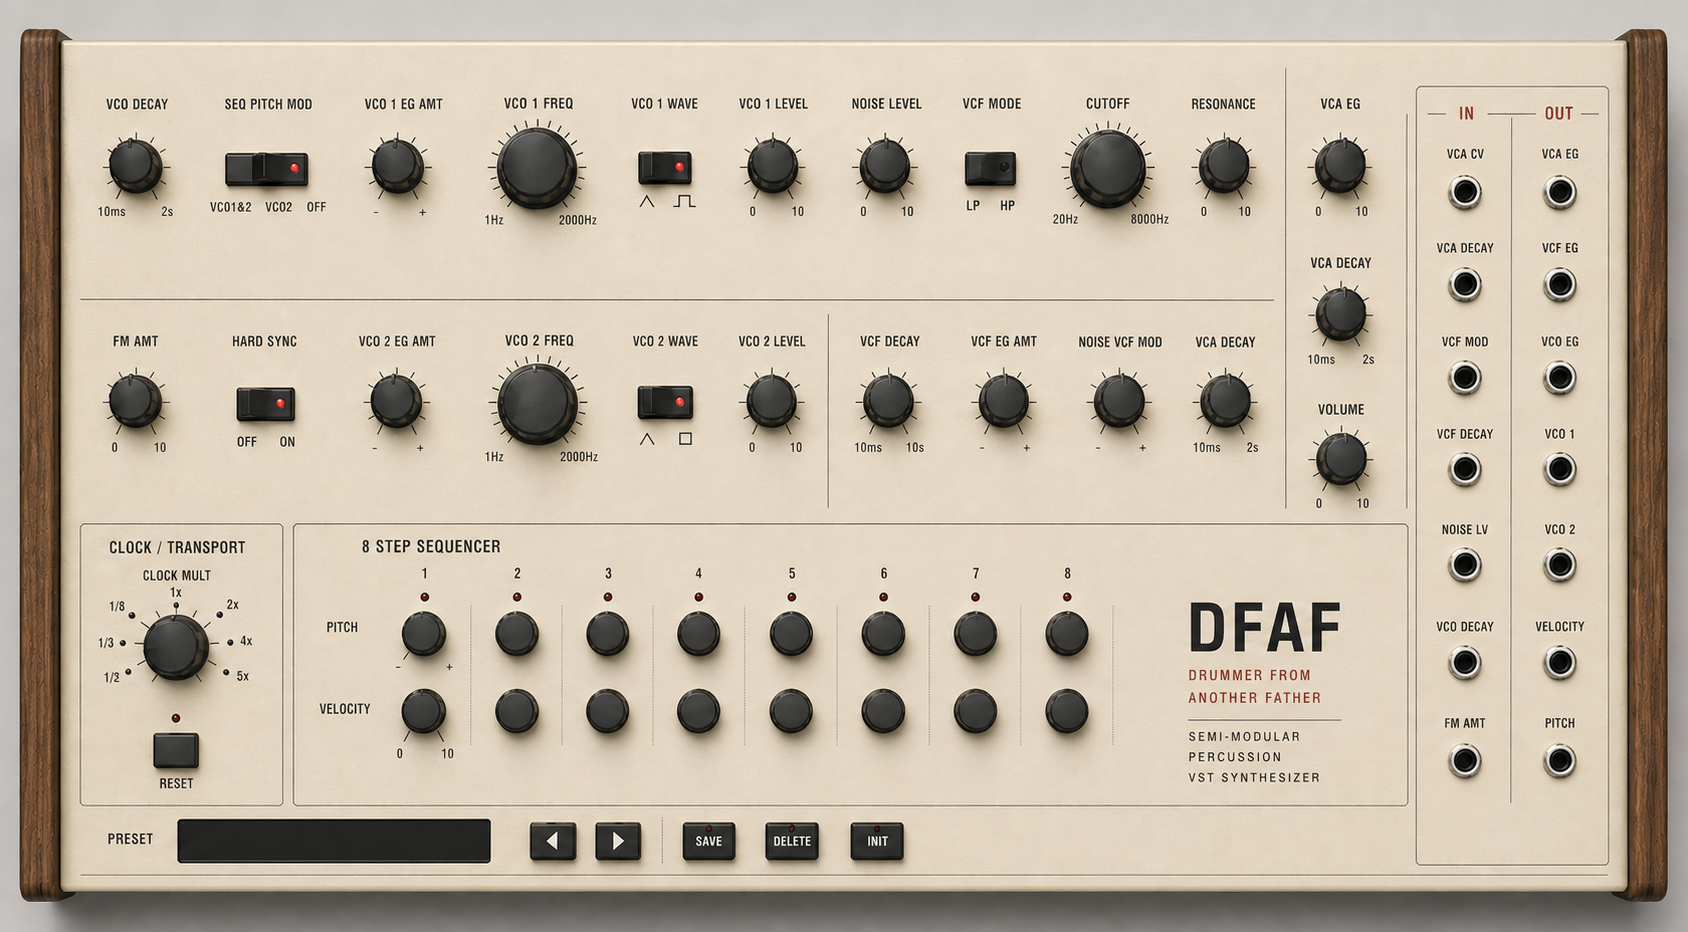
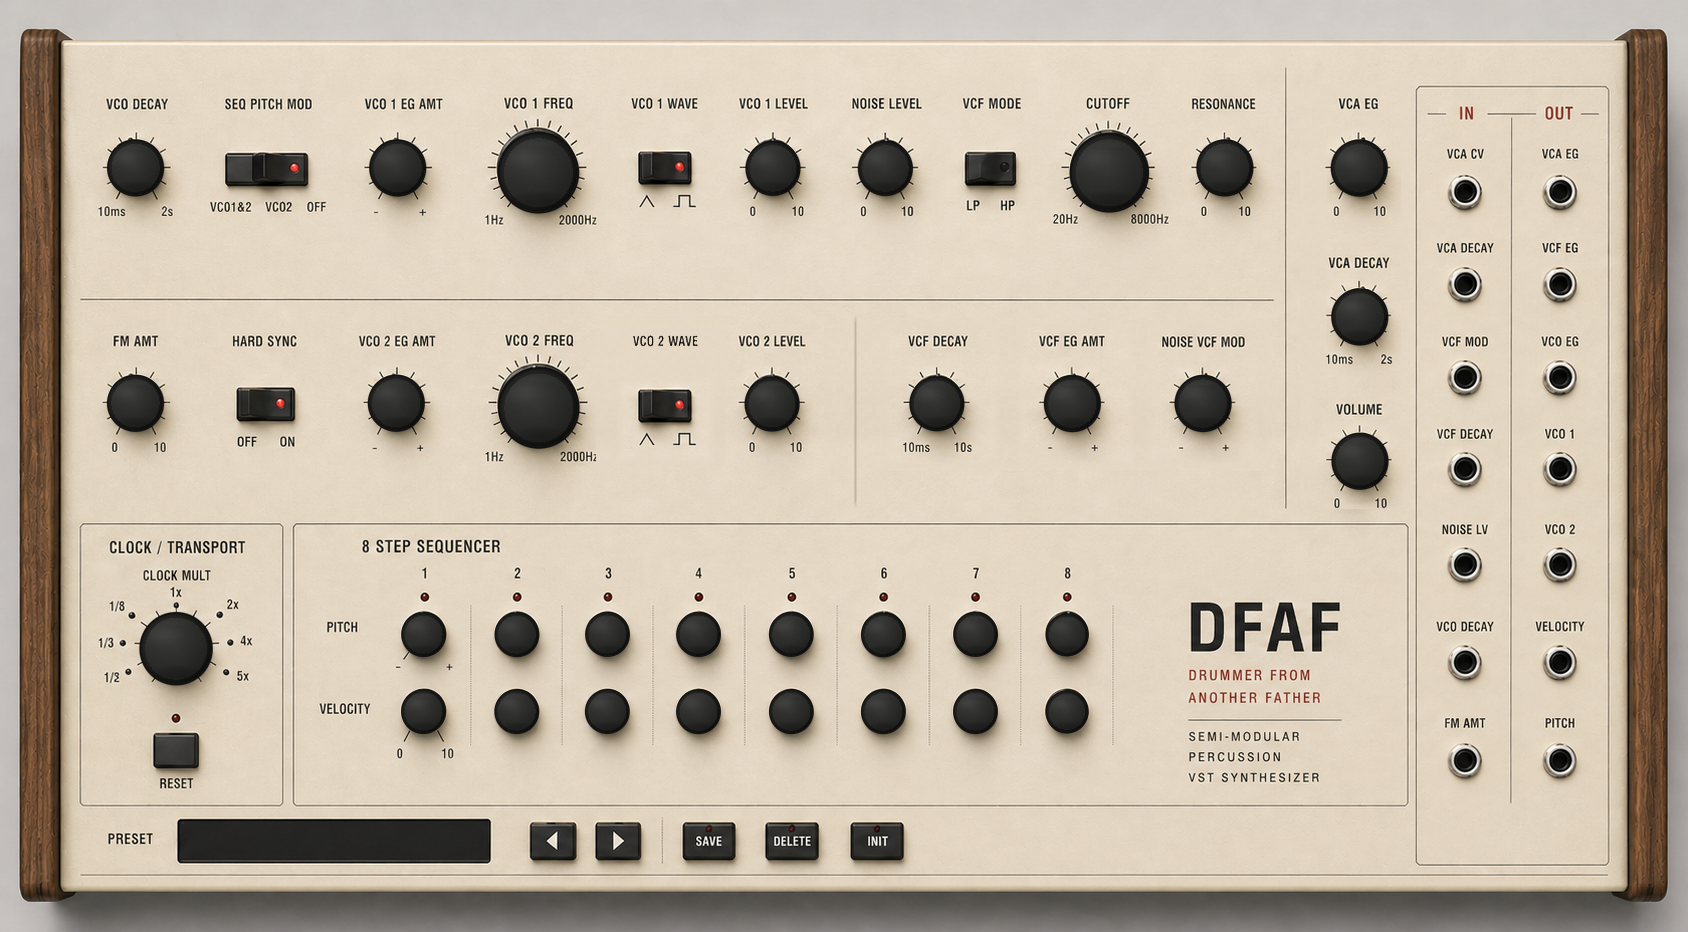
Update panel background and GUI mapping

diff --git a/Source/PluginEditor.cpp b/Source/PluginEditor.cpp
@@ -25,8 +25,8 @@ const juce::Colour kCableRed         = juce::Colour(0xffb24737);
 const juce::Colour kCableDark        = juce::Colour(0xff383838);
 const juce::Colour kCableAmber       = juce::Colour(0xffb06a3a);
 
-constexpr float kPanelSourceWidth = 1689.0f;
-constexpr float kPanelSourceHeight = 931.0f;
+constexpr float kPanelSourceWidth = 1688.0f;
+constexpr float kPanelSourceHeight = 932.0f;
 constexpr const char* kPanelControlId = "panel-control";
 
 juce::File getDefaultPresetDirectory()
@@ -92,11 +92,15 @@ void drawPanelToggle(juce::Graphics& g, juce::Rectangle<float> bounds, int selec
     g.setColour(juce::Colour(0x44000000));
     g.drawRoundedRectangle(handle, 2.0f, 1.0f);
 
-    auto redDot = juce::Rectangle<float>(4.4f, 4.4f).withCentre({ handle.getRight() - 9.0f, handle.getCentreY() - 0.5f });
-    g.setColour(juce::Colour(0xff8a302d));
+    auto redDot = juce::Rectangle<float>(5.6f, 5.6f).withCentre({ handle.getRight() - 9.0f, handle.getCentreY() - 0.5f });
+    g.setColour(kLedRed.withAlpha(0.20f));
+    g.fillEllipse(redDot.expanded(3.0f));
+    g.setColour(juce::Colour(0xff5a1614));
+    g.fillEllipse(redDot.expanded(0.8f));
+    g.setColour(kLedRed);
     g.fillEllipse(redDot);
-    g.setColour(juce::Colour(0xffff8a78).withAlpha(0.42f));
-    g.fillEllipse(redDot.reduced(1.4f).translated(-0.4f, -0.4f));
+    g.setColour(juce::Colour(0xffffd0bd).withAlpha(0.58f));
+    g.fillEllipse(redDot.reduced(1.9f).translated(-0.7f, -0.7f));
 }
 
 int seqPitchModPanelIndex(int parameterIndex)
@@ -109,16 +113,9 @@ int seqPitchModPanelIndex(int parameterIndex)
     }
 }
 
-void drawActivePanelLed(juce::Graphics& g, juce::Rectangle<float> led)
+int wavePanelIndex(int parameterIndex)
 {
-    g.setColour(kLedRed.withAlpha(0.26f));
-    g.fillEllipse(led.expanded(4.0f));
-    g.setColour(juce::Colour(0xff5a1614));
-    g.fillEllipse(led.expanded(1.0f));
-    g.setColour(kLedRed);
-    g.fillEllipse(led);
-    g.setColour(juce::Colour(0xffffd0bd).withAlpha(0.62f));
-    g.fillEllipse(led.reduced(2.6f).translated(-1.0f, -1.0f));
+    return parameterIndex == 1 ? 0 : 1; // TRI is left on the panel; square is right.
 }
 
 juce::Path makeCablePath(juce::Point<float> src, juce::Point<float> dst, float slack = 1.0f)
@@ -450,20 +447,47 @@ DFAFEditor::DFAFEditor(DFAFProcessor& p)
     vco1WaveBox.addItem("SQUARE", 1);
     vco1WaveBox.addItem("TRIANGLE", 2);
     vco1WaveBox.setComponentID(kPanelControlId);
+    vco1WaveBox.setInterceptsMouseClicks(false, false);
     vco1WaveBox.onChange = [this]() { repaint(); };
     addAndMakeVisible(vco1WaveBox);
+
+    vco1WaveButton.setComponentID(kPanelControlId);
+    vco1WaveButton.onClick = [this]()
+    {
+        vco1WaveBox.setSelectedId(vco1WaveBox.getSelectedId() == 2 ? 1 : 2,
+                                  juce::sendNotification);
+    };
+    addAndMakeVisible(vco1WaveButton);
 
     vco2WaveBox.addItem("SQUARE", 1);
     vco2WaveBox.addItem("TRIANGLE", 2);
     vco2WaveBox.setComponentID(kPanelControlId);
+    vco2WaveBox.setInterceptsMouseClicks(false, false);
     vco2WaveBox.onChange = [this]() { repaint(); };
     addAndMakeVisible(vco2WaveBox);
+
+    vco2WaveButton.setComponentID(kPanelControlId);
+    vco2WaveButton.onClick = [this]()
+    {
+        vco2WaveBox.setSelectedId(vco2WaveBox.getSelectedId() == 2 ? 1 : 2,
+                                  juce::sendNotification);
+    };
+    addAndMakeVisible(vco2WaveButton);
 
     vcfModeBox.addItem("LP", 1);
     vcfModeBox.addItem("HP", 2);
     vcfModeBox.setComponentID(kPanelControlId);
+    vcfModeBox.setInterceptsMouseClicks(false, false);
     vcfModeBox.onChange = [this]() { repaint(); };
     addAndMakeVisible(vcfModeBox);
+
+    vcfModeButton.setComponentID(kPanelControlId);
+    vcfModeButton.onClick = [this]()
+    {
+        vcfModeBox.setSelectedId(vcfModeBox.getSelectedId() == 2 ? 1 : 2,
+                                 juce::sendNotification);
+    };
+    addAndMakeVisible(vcfModeButton);
 
     clockMultBox.addItem("1/8", 1);
     clockMultBox.addItem("1/5", 2);
@@ -671,16 +695,16 @@ juce::Point<int> DFAFEditor::mapPanelPoint(float x, float y) const
 
 juce::Rectangle<int> DFAFEditor::getPatchAreaBounds() const
 {
-    return mapPanelRect(1388.0f, 110.0f, 211.0f, 708.0f);
+    return mapPanelRect(1414.0f, 86.0f, 195.0f, 781.0f);
 }
 
 juce::Point<int> DFAFEditor::getJackCentre(PatchPoint pp) const
 {
     const auto inputs = inputOrder();
     const auto outputs = outputOrder();
-    constexpr std::array<float, 7> ys { 216.0f, 305.0f, 394.0f, 482.0f, 572.0f, 661.0f, 750.0f };
-    constexpr float inX = 1442.0f;
-    constexpr float outX = 1543.0f;
+    constexpr std::array<float, 7> ys { 191.0f, 284.0f, 377.0f, 468.0f, 564.0f, 662.0f, 760.0f };
+    constexpr float inX = 1465.0f;
+    constexpr float outX = 1560.0f;
 
     for (int i = 0; i < 7; ++i)
     {
@@ -958,25 +982,23 @@ void DFAFEditor::setupKnob(juce::Slider& s, bool small)
 void DFAFEditor::drawPanelSwitches(juce::Graphics& g) const
 {
     const int seqPitchModIndex = seqPitchModPanelIndex(seqPitchModBox.getSelectedItemIndex());
-    drawPanelToggle(g, mapPanelRect(231.0f, 182.0f, 96.0f, 33.0f).toFloat(),
+    drawPanelToggle(g, mapPanelRect(225.0f, 153.0f, 83.0f, 34.0f).toFloat(),
                     seqPitchModIndex, 3);
-    drawActivePanelLed(g, mapPanelRect(245.0f + 29.0f * (float) seqPitchModIndex, 162.0f, 9.0f, 9.0f).toFloat());
 
-    drawPanelToggle(g, mapPanelRect(631.0f, 171.0f, 54.0f, 30.0f).toFloat(),
-                    juce::jlimit(0, 1, vco1WaveBox.getSelectedItemIndex()), 2);
-    drawPanelToggle(g, mapPanelRect(958.0f, 191.0f, 43.0f, 31.0f).toFloat(),
+    drawPanelToggle(g, mapPanelRect(639.0f, 152.0f, 53.0f, 33.0f).toFloat(),
+                    wavePanelIndex(vco1WaveBox.getSelectedItemIndex()), 2);
+    drawPanelToggle(g, mapPanelRect(965.0f, 152.0f, 51.0f, 34.0f).toFloat(),
                     juce::jlimit(0, 1, vcfModeBox.getSelectedItemIndex()), 2);
-    drawPanelToggle(g, mapPanelRect(250.0f, 405.0f, 52.0f, 31.0f).toFloat(),
-                    juce::jlimit(0, 1, hardSyncBox.getSelectedItemIndex()), 2);
-    if (hardSyncBox.getSelectedItemIndex() == 1)
-        drawActivePanelLed(g, mapPanelRect(272.0f, 385.0f, 9.0f, 9.0f).toFloat());
 
-    drawPanelToggle(g, mapPanelRect(631.0f, 395.0f, 54.0f, 30.0f).toFloat(),
-                    juce::jlimit(0, 1, vco2WaveBox.getSelectedItemIndex()), 2);
+    drawPanelToggle(g, mapPanelRect(237.0f, 388.0f, 58.0f, 34.0f).toFloat(),
+                    juce::jlimit(0, 1, hardSyncBox.getSelectedItemIndex()), 2);
+
+    drawPanelToggle(g, mapPanelRect(638.0f, 386.0f, 55.0f, 34.0f).toFloat(),
+                    wavePanelIndex(vco2WaveBox.getSelectedItemIndex()), 2);
 
     if (resetLedActive)
     {
-        auto led = mapPanelRect(183.0f, 704.0f, 9.0f, 9.0f).toFloat();
+        auto led = mapPanelRect(171.0f, 714.0f, 9.0f, 9.0f).toFloat();
         g.setColour(kLedRed.withAlpha(0.28f));
         g.fillEllipse(led.expanded(5.0f));
         g.setColour(kLedRed);
@@ -986,8 +1008,8 @@ void DFAFEditor::drawPanelSwitches(juce::Graphics& g) const
 
 void DFAFEditor::drawPresetDisplay(juce::Graphics& g) const
 {
-    auto screenArea = mapPanelRect(183.0f, 816.0f, 250.0f, 40.0f).toFloat();
-    auto textArea = mapPanelRect(207.0f, 821.0f, 208.0f, 28.0f).toFloat();
+    auto screenArea = mapPanelRect(178.0f, 819.0f, 313.0f, 44.0f).toFloat();
+    auto textArea = mapPanelRect(202.0f, 824.0f, 270.0f, 31.0f).toFloat();
     auto selectedId = presetBox.getSelectedId();
     if (selectedId == 0)
         selectedId = kPresetInitId;
@@ -1049,7 +1071,9 @@ void DFAFEditor::paint(juce::Graphics& g)
 
     for (int i = 0; i < 8; ++i)
     {
-        const auto led = mapPanelRect(409.0f + 86.0f * (float) i, 571.0f, 9.0f, 9.0f).toFloat();
+        constexpr std::array<float, 8> stepLedXs { 424.0f, 517.0f, 608.0f, 699.0f,
+                                                   792.0f, 884.0f, 975.0f, 1067.0f };
+        const auto led = mapPanelRect(stepLedXs[(size_t) i] - 4.5f, 592.5f, 9.0f, 9.0f).toFloat();
         if (i == currentLedStep)
         {
             g.setColour(kLedRed.withAlpha(0.28f));
@@ -1071,57 +1095,62 @@ void DFAFEditor::resized()
         slider.setBounds(mapPanelRect(cx - size * 0.5f, cy - size * 0.5f, size, size));
     };
 
-    setKnobCentre(vcoDecay, 151.0f, 184.0f, 62.0f);
+    setKnobCentre(vcoDecay, 136.0f, 169.0f, 62.0f);
     vcoDecay.getProperties().set("panelIndicatorCentreX", -2.0);
     vcoDecay.getProperties().set("panelIndicatorCentreY", -2.0);
-    setKnobCentre(vco1EgAmount, 400.0f, 184.0f, 62.0f);
+    setKnobCentre(vco1EgAmount, 398.0f, 169.0f, 62.0f);
     vco1EgAmount.getProperties().set("panelIndicatorCentreX", -1.0);
-    setKnobCentre(vco1Frequency, 529.0f, 184.0f, 82.0f);
+    setKnobCentre(vco1Frequency, 539.0f, 174.0f, 82.0f);
     vco1Frequency.getProperties().set("panelIndicatorCentreX", -1.5);
     vco1Frequency.getProperties().set("panelIndicatorCentreY", -3.0);
-    setKnobCentre(vco1Level, 765.0f, 184.0f, 60.0f);
-    setKnobCentre(noiseLevel, 884.0f, 184.0f, 60.0f);
-    setKnobCentre(cutoff, 1084.0f, 184.0f, 78.0f);
-    setKnobCentre(resonance, 1196.0f, 184.0f, 62.0f);
-    setKnobCentre(vcaEg, 1303.0f, 184.0f, 62.0f);
+    setKnobCentre(vco1Level, 773.0f, 169.0f, 60.0f);
+    setKnobCentre(noiseLevel, 886.0f, 170.0f, 60.0f);
+    setKnobCentre(cutoff, 1110.0f, 174.0f, 78.0f);
+    setKnobCentre(resonance, 1225.0f, 169.0f, 62.0f);
+    setKnobCentre(vcaEg, 1342.0f, 170.0f, 62.0f);
 
-    setKnobCentre(fmAmount, 151.0f, 407.0f, 62.0f);
+    setKnobCentre(fmAmount, 136.0f, 404.0f, 62.0f);
     fmAmount.getProperties().set("panelIndicatorCentreX", -2.0);
     fmAmount.getProperties().set("panelIndicatorCentreY", -2.0);
-    setKnobCentre(vco2EgAmount, 400.0f, 407.0f, 62.0f);
+    setKnobCentre(vco2EgAmount, 396.0f, 404.0f, 62.0f);
     vco2EgAmount.getProperties().set("panelIndicatorCentreX", -1.0);
-    setKnobCentre(vco2Frequency, 529.0f, 407.0f, 82.0f);
+    setKnobCentre(vco2Frequency, 540.0f, 410.0f, 82.0f);
     vco2Frequency.getProperties().set("panelIndicatorCentreX", -1.5);
     vco2Frequency.getProperties().set("panelIndicatorCentreY", -3.0);
-    setKnobCentre(vco2Level, 765.0f, 407.0f, 60.0f);
-    setKnobCentre(vcfDecay, 889.0f, 407.0f, 62.0f);
-    setKnobCentre(vcfEgAmount, 1024.0f, 407.0f, 62.0f);
-    setKnobCentre(noiseVcfMod, 1156.0f, 407.0f, 62.0f);
-    setKnobCentre(vcaDecay, 1284.0f, 407.0f, 62.0f);
+    setKnobCentre(vco2Level, 772.0f, 405.0f, 60.0f);
+    setKnobCentre(vcfDecay, 890.0f, 405.0f, 62.0f);
+    setKnobCentre(vcfEgAmount, 1005.0f, 404.0f, 62.0f);
+    setKnobCentre(noiseVcfMod, 1121.0f, 404.0f, 62.0f);
+    setKnobCentre(vcaDecay, 1227.0f, 405.0f, 62.0f);
 
-    setKnobCentre(volume, 185.0f, 640.0f, 76.0f);
-    clockMultBox.setBounds(mapPanelRect(130.0f, 593.0f, 116.0f, 90.0f));
-    resetButton.setBounds(mapPanelRect(163.0f, 724.0f, 45.0f, 40.0f));
+    setKnobCentre(volume, 1342.0f, 462.0f, 62.0f);
+    clockMultBox.setBounds(mapPanelRect(118.0f, 594.0f, 116.0f, 90.0f));
+    resetButton.setBounds(mapPanelRect(154.0f, 733.0f, 45.0f, 36.0f));
 
-    seqPitchModBox.setBounds(mapPanelRect(231.0f, 182.0f, 96.0f, 34.0f));
+    seqPitchModBox.setBounds(mapPanelRect(225.0f, 153.0f, 83.0f, 66.0f));
     seqPitchModButton.setBounds(seqPitchModBox.getBounds());
-    vco1WaveBox.setBounds(mapPanelRect(631.0f, 171.0f, 54.0f, 51.0f));
-    vcfModeBox.setBounds(mapPanelRect(958.0f, 171.0f, 43.0f, 51.0f));
-    hardSyncBox.setBounds(mapPanelRect(250.0f, 405.0f, 52.0f, 58.0f));
+    vco1WaveBox.setBounds(mapPanelRect(639.0f, 152.0f, 53.0f, 73.0f));
+    vco1WaveButton.setBounds(vco1WaveBox.getBounds());
+    vcfModeBox.setBounds(mapPanelRect(965.0f, 152.0f, 51.0f, 74.0f));
+    vcfModeButton.setBounds(vcfModeBox.getBounds());
+    hardSyncBox.setBounds(mapPanelRect(237.0f, 388.0f, 58.0f, 67.0f));
     hardSyncButton.setBounds(hardSyncBox.getBounds());
-    vco2WaveBox.setBounds(mapPanelRect(631.0f, 395.0f, 54.0f, 51.0f));
+    vco2WaveBox.setBounds(mapPanelRect(638.0f, 386.0f, 55.0f, 74.0f));
+    vco2WaveButton.setBounds(vco2WaveBox.getBounds());
 
+    constexpr std::array<float, 8> stepXs { 424.0f, 517.0f, 608.0f, 699.0f,
+                                            792.0f, 884.0f, 976.0f, 1067.0f };
     for (int i = 0; i < 8; ++i)
     {
-        const float cx = 411.0f + 86.5f * (float) i;
-        setKnobCentre(stepPitch[i], cx, 619.0f, 50.0f);
-        setKnobCentre(stepVelocity[i], cx, 698.0f, 50.0f);
+        const float cx = stepXs[(size_t) i];
+        setKnobCentre(stepPitch[i], cx, 635.0f, 50.0f);
+        setKnobCentre(stepVelocity[i], cx, 712.0f, 50.0f);
     }
 
-    presetBox.setBounds(mapPanelRect(178.0f, 815.0f, 258.0f, 42.0f));
-    presetPrevButton.setBounds(mapPanelRect(482.0f, 816.0f, 37.0f, 42.0f));
-    presetNextButton.setBounds(mapPanelRect(538.0f, 816.0f, 37.0f, 42.0f));
-    presetSaveButton.setBounds(mapPanelRect(648.0f, 827.0f, 34.0f, 28.0f));
-    presetDeleteButton.setBounds(mapPanelRect(724.0f, 827.0f, 42.0f, 28.0f));
-    presetInitButton.setBounds(mapPanelRect(799.0f, 827.0f, 37.0f, 28.0f));
+    presetBox.setBounds(mapPanelRect(178.0f, 819.0f, 313.0f, 44.0f));
+    presetPrevButton.setBounds(mapPanelRect(530.0f, 823.0f, 47.0f, 38.0f));
+    presetNextButton.setBounds(mapPanelRect(596.0f, 822.0f, 45.0f, 39.0f));
+    presetSaveButton.setBounds(mapPanelRect(683.0f, 823.0f, 53.0f, 38.0f));
+    presetDeleteButton.setBounds(mapPanelRect(766.0f, 823.0f, 53.0f, 38.0f));
+    presetInitButton.setBounds(mapPanelRect(851.0f, 823.0f, 49.0f, 38.0f));
 }

diff --git a/Source/PluginEditor.h b/Source/PluginEditor.h
@@ -67,6 +67,9 @@ private:
     juce::Slider stepPitch[8];
     juce::Slider stepVelocity[8];
     juce::ComboBox vco1WaveBox, vco2WaveBox, vcfModeBox;
+    juce::TextButton vco1WaveButton { "VCO 1 WAVE" };
+    juce::TextButton vco2WaveButton { "VCO 2 WAVE" };
+    juce::TextButton vcfModeButton { "VCF MODE" };
 
     int currentLedStep = -1;
     bool resetLedActive = false;
